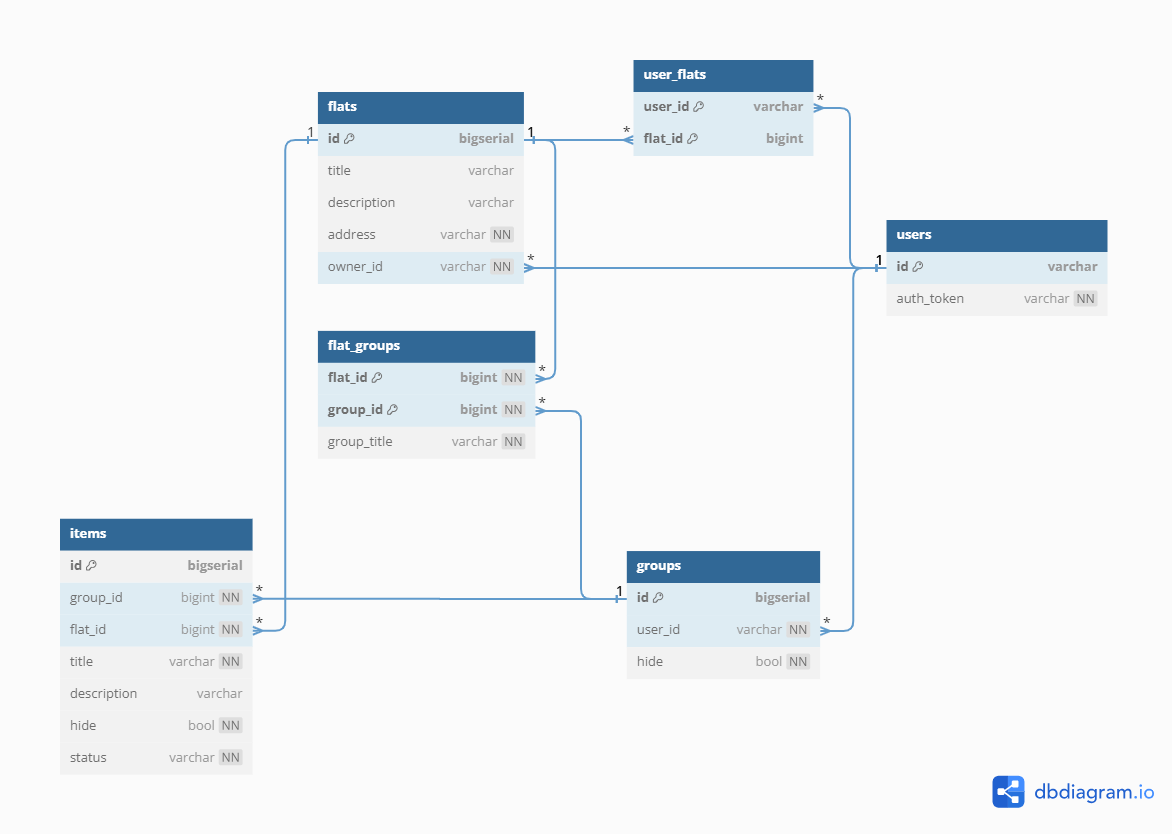
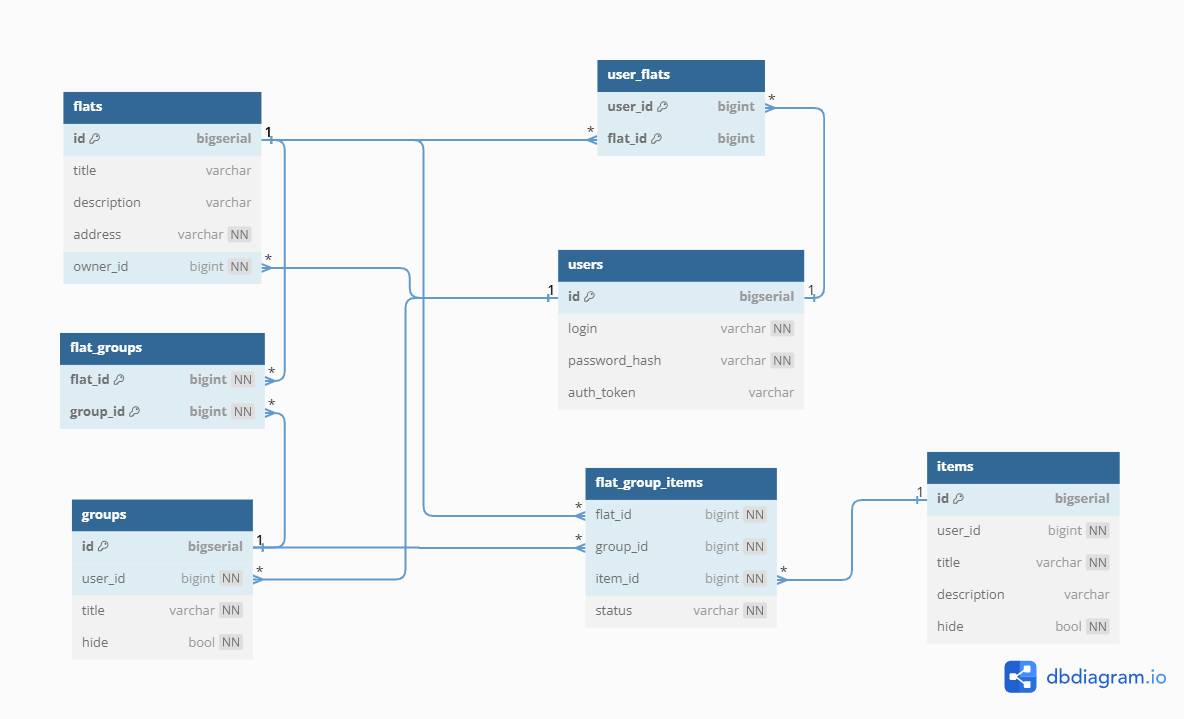
update README
- provide vital sections, first version
- update db scheme asset that is used in README

diff --git a/README.md b/README.md
@@ -1,3 +1,119 @@
 # Rent Check
 
-<img alt="logo" height="300" src="./assets/rent-check-logo.png" width="300"/>
+<img alt="logo" align="left" height="350" src="./assets/rent-check-logo.png" width="350"/>
+
+Rent Check is an application that serves as a convenient checklist designed to simplify your apartment rental experience.
+
+The app streamlines apartment choice by categorizing check items, allowing you to create groups within each flat based on necessity (_must-have_ and _optional_), room-specific criteria (_bathroom_ and _bedroom_), and any other preferences you desire.
+
+In most cases, you confidently assess requirements, checking items like “not ground floor” for a second-floor apartment. In situations of uncertainty, such as when considering _pets allowed_ and a landlord permits cats but is unsure about dogs, Rent Check introduces a _meh_ option.
+
+After inspecting all the apartments and marking your preferences, you'll have a consolidated list of potential flats, conveniently organized based on your specific criteria. This makes comparing apartments and reaching a final decision a simplified process.
+
+## Table of contents
+
+- [User Guide](#user-guide)
+- [What's Next](#whats-next)
+- [Implementation Details](#implementation-details)
+- [Development Team](#dev-team)
+
+## User Guide <a name="user-guide"></a>
+
+### Register & Login
+
+To register and log in, enter your username and password.
+
+Note that currently, our app supports only one authentication method (refer to Bearer Authentication for details).
+
+### Add Flat
+
+Click the `+` button to add a flat. Provide the mandatory address and, optionally, a title and description. Upon completion, you'll be redirected to a dedicated page for the created flat.
+
+### Add Group
+
+Click the `+` button to add a group. Next, either assign a new unique title or select from existing groups – those you currently have or had across all flats. As a result, a new empty group is created.
+
+### Add Item
+
+Click the `+` button to the right of a group title to add an item to the specific group. Likewise for groups, provide either a new unique title or select an existing item. Thus, a new item is added to the group.
+
+### Set an Item Status
+
+There are four statuses you can assign to an item:
+
+- `unset`, no color: Haven't been checked yet.
+- `not ok`, red color: Doesn't meet the requirement.
+- `ok`, green color: Meets the requirement.
+- `meh`, yellow color: Uncertain if it meets the requirement or not.
+
+To change the status, simply tap on the item.
+
+### Delete Item
+Swipe an item to delete it from the group.
+
+### Delete Group
+To delete a group, click the 🗑 button at the right.
+
+### Delete Flat
+To delete a flat, long tap on it
+
+## What's Next <a name="whats-next"></a>
+This version represents an MVP, with more exciting features coming!
+
+Check the [Rent Check Project](https://github.com/users/alyoanton9/projects/1) to explore opened issues and stay tuned for updates 💙
+
+## Implementation Details <a name="implementation-details"></a>
+
+For technical details regarding the backend, please refer to the corresponding section. For the **frontend**, check out the **[corresponding repository](https://github.com/NewUserKK/rent-checklist-frontend)**.
+
+### Architecture
+
+The application follows a layered architecture:
+
+- DB Layer: stores and retrieves data
+- Repository Layer: interface to interact with the database using an ORM
+- Business Logic Layer: core logic of the app
+- Handlers Layer: manages user requests
+
+### Technologies Used
+
+The code is implemented in Go, using the following stack:
+
+- [PostgreSQL](https://www.postgresql.org/) as the database
+- [migrate](https://pkg.go.dev/github.com/golang-migrate/migrate/v4) for database migrations
+- [gorm](https://gorm.io/) as the ORM library
+- [Echo](https://echo.labstack.com/) as the web framework for HTTP routing
+- [jwt-go](https://pkg.go.dev/github.com/golang-jwt/jwt@v3.2.2+incompatible) for providing Bearer authentication tokens
+- [testify](https://pkg.go.dev/github.com/stretchr/testify) and [Testcontainers](https://golang.testcontainers.org/) for testing
+- [Docker](https://www.docker.com/) for deployment
+- [Yandex Cloud](https://cloud.yandex.com/en/) for hosting
+
+### Database Schema
+
+<img alt="db-scheme" height="500" src="./assets/db-scheme.png" width="850"/>
+
+### Authentication and Authorization
+
+The app employs token (Bearer) authorization for secure user access. Here's how it works:
+
+- **Registration:** when a user registers, their login and password hash are stored in the database
+- **Login:** upon login, a new JWT token is generated, or the existing one is retrieved; this token is then sent to the frontend in the Authorization header
+- **Logout:** when a user logs out, the corresponding token is deleted from the database, terminating the session
+
+### Testing
+
+Integration tests have been implemented for the repository layer. [Testcontainers]([url](https://golang.testcontainers.org/)) is utilized to set up a Docker container with a test database.
+
+The current test coverage averages around 80% for flat, group, item, and user repositories.
+
+### Deployment
+Docker serves as the deployment solution, here are the key characteristics of its configuration:
+
+- Two services: `db` for PostgreSQL and `api` for the application
+- Usage of the [bridge network driver](https://docs.docker.com/network/drivers/bridge/) to connect the `db` and `api` services
+- Health check of PostgreSQL before starting the `api` service
+- Integration of the [volume driver](https://docs.docker.com/storage/volumes/) for persistent storage
+
+## Development Team <a name="dev-team"></a>
+- @alyoanton9: backend, business logic, UI design, logo creation 
+- @NewUserKK: frontend, business logic, UI design, idea
